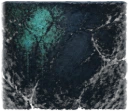
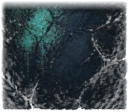
Scatter the cornice so forty aligned caps stop forming a ruled line
Reported as a straight horizontal line running parallel to the running floor, and
found by scanning every screen row for horizontal edge energy rather than by eye:
two rows spiked well above the rest, and both were placement, not art.

Every wall panel carries a painted stone cap of roughly the same depth, and every
panel was placed with its top at exactly the same y. Individually each cap has an
irregular lower edge. Forty of them at identical height average that irregularity
away into one continuous line down the length of the platform — the eye is very
good at spotting alignment, and this was forty pieces of evidence for it.

The feature panels made it worse rather than breaking it up: they were inset at
exactly CAP_PX below the face top with a hard top edge, so they landed on the same
line and reinforced it.

--- What changed --------------------------------------------------------------

Each wall panel now gets a per-panel vertical scale of 1.0 to 1.35, which varies
how deep its cap falls, plus an upward nudge of 0-3px, which varies where it
starts. Scaling does most of the work because it is the safer knob: a taller panel
covers more of the face, never less. The nudge is capped at 3px so no panel eats
meaningfully into the moss lip, which is the cue the player reads edges by.

Cropping is in texture space and scaling happens after, so the crop height is the
drawn height divided by the scale — otherwise a scaled panel hangs past the bottom
[…]

Changed region(s): [[0.0, 0.0, 0.9922, 0.0804]]

diff --git a/src/systems/platform-dressing.js b/src/systems/platform-dressing.js
@@ -72,6 +72,20 @@ const UNDERHANG_LAYERS = [
 const CAP_PX = 14;
 
 /**
+ * Every wall panel carries a painted stone cap of roughly the same depth, and they were all
+ * placed with their tops at exactly the same y. Individually each cap has an irregular lower
+ * edge; forty of them at identical height average that irregularity away into one ruled line
+ * running the length of the platform, parallel to the floor.
+ *
+ * The fix is to stop them lining up. A per-panel vertical scale varies how deep each cap
+ * falls, and a small upward nudge varies where each starts. Scaling is the safer of the two
+ * knobs — a taller panel covers more, never less — so it does most of the work, and the
+ * nudge is capped at 3px so no panel eats meaningfully into the moss lip above it.
+ */
+const CAP_SCALE_MAX = 0.35;
+const CAP_NUDGE_MAX = 3;
+
+/**
  * Panels overlap by the width their side edges are feathered over (see the cut script).
  * Butted edge to edge instead, each panel's own dark border drew a hard vertical line down
  * the rock at every join — a grid, in art meant to read as one continuous wall.
@@ -241,14 +255,21 @@ export function dressPlatforms(scene, map, layer, defs = []) {
     let x = left;
     while (x < left + width) {
       const frame = `w${wallBag()}`;
-      const full = frameW(frame);
-      const w = Math.min(full, left + width - x);
+      const f = atlas.get(frame);
+      const w = Math.min(f.width, left + width - x);
+      const sy = 1 + rng.frac() * CAP_SCALE_MAX;
+      const dy = rng.between(0, CAP_NUDGE_MAX);
+      // Crop in texture space, so the height needed is the drawn height divided by the
+      // scale. Clamped to the frame: a panel can be shorter than the face it covers, which
+      // is what the underhangs and the camera's bottom clamp are there for.
+      const cropH = Math.min(f.height, (faceH + dy) / sy);
       made.push(
         scene.add
-          .image(x, faceTop, KEYS.wallAtlas, frame)
+          .image(x, faceTop - dy, KEYS.wallAtlas, frame)
           .setOrigin(0, 0)
           .setDepth(DEPTH_FACE)
-          .setCrop(0, 0, w, faceH)
+          .setScale(1, sy)
+          .setCrop(0, 0, w, cropH)
       );
       x += Math.max(8, w - OVERLAP_PX);
     }
@@ -264,12 +285,15 @@ export function dressPlatforms(scene, map, layer, defs = []) {
         const span = width - 2 * TILE;
         if (span <= fw) break;
         const at = left + TILE + (span - fw) * ((i + 0.5) / count);
+        // Inset varies too. Pinned at exactly CAP_PX these landed on the cornice line and
+        // reinforced the very edge the scatter above is breaking up.
+        const inset = CAP_PX + rng.between(2, 14);
         made.push(
           scene.add
-            .image(at, faceTop + CAP_PX, KEYS.wallAtlas, frame)
+            .image(at, faceTop + inset, KEYS.wallAtlas, frame)
             .setOrigin(0, 0)
             .setDepth(DEPTH_FACE + 0.5)
-            .setCrop(0, 0, Math.min(fw, left + width - TILE - at), faceH - CAP_PX)
+            .setCrop(0, 0, Math.min(fw, left + width - TILE - at), Math.max(8, faceH - inset))
         );
       }
     }
